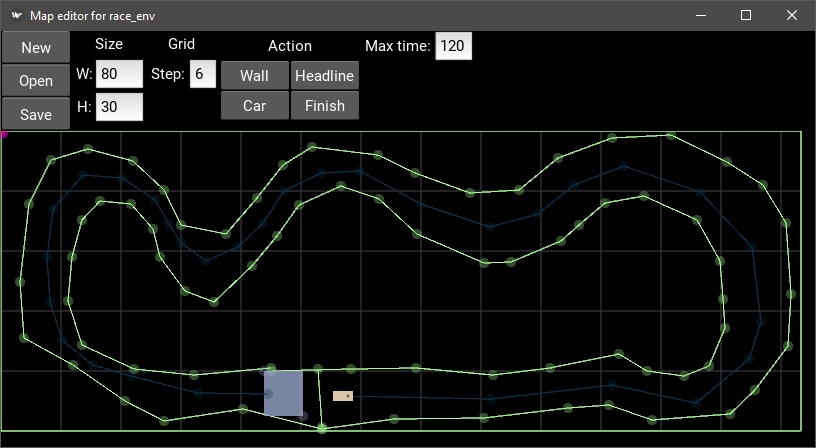
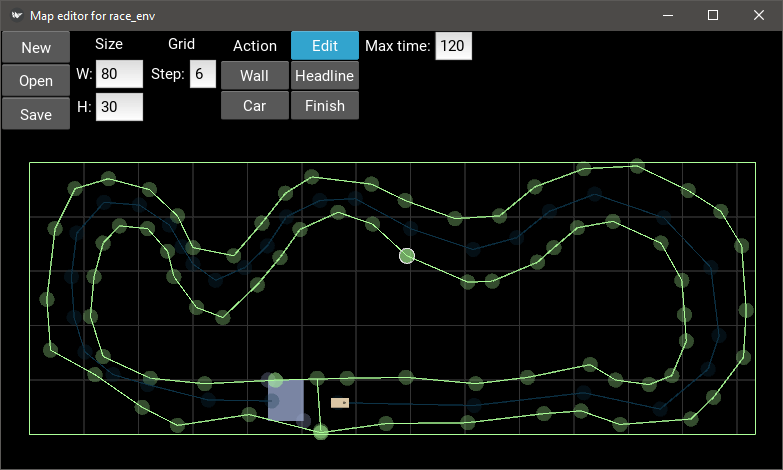
remove drawing of selection areas in other modes
updated screenshot

diff --git a/main.py b/main.py
@@ -259,6 +259,7 @@ class MapDrawer(Widget):
 
     def inner_draw(self):
         sel_r = self.selection_r * self.zoom
+        show_selection_areas = self.action == CurrentAction.edit
 
         Color(*self.colors['grid'])
         for i in range(0, app.map.size[0], self.grid_step):
@@ -266,15 +267,16 @@ class MapDrawer(Widget):
         for i in range(0, app.map.size[1], self.grid_step):
             Line(points=(0, i, app.map.size[0], i))
 
-        Color(*self.colors['finish'], 0.3)
-        for point in app.map.finish:
-            Ellipse(pos=(point[0] - sel_r, point[1] - sel_r),
-                    size=(sel_r * 2, sel_r * 2))
-
         Color(*self.colors['finish'], 0.8)
         if len(app.map.finish) == 2:
             Rectangle(pos=app.map.finish[0],
                       size=(app.map.finish[1][0] - app.map.finish[0][0], app.map.finish[1][1] - app.map.finish[0][1]))
+
+        if show_selection_areas:
+            Color(*self.colors['finish'], 0.3)
+            for point in app.map.finish:
+                Ellipse(pos=(point[0] - sel_r, point[1] - sel_r),
+                        size=(sel_r * 2, sel_r * 2))
 
         Color(*self.colors['wall'])
         Line(rectangle=(0, 0, app.map.size[0], app.map.size[1]))
@@ -282,11 +284,12 @@ class MapDrawer(Widget):
             for i in range(len(wall) - 1):
                 Line(points=(wall[i][0], wall[i][1], wall[i + 1][0], wall[i + 1][1]))
 
-        Color(*self.colors['wall'], 0.3)
-        for wall in app.map.walls:
-            for point in wall:
-                Ellipse(pos=(point[0] - sel_r, point[1] - sel_r),
-                        size=(sel_r * 2, sel_r * 2))
+        if show_selection_areas:
+            Color(*self.colors['wall'], 0.3)
+            for wall in app.map.walls:
+                for point in wall:
+                    Ellipse(pos=(point[0] - sel_r, point[1] - sel_r),
+                            size=(sel_r * 2, sel_r * 2))
 
         Color(*self.colors['main_line'])
         for i in range(len(app.map.headline) - 1):
@@ -294,10 +297,11 @@ class MapDrawer(Widget):
                 app.map.headline[i][0], app.map.headline[i][1], app.map.headline[i + 1][0],
                 app.map.headline[i + 1][1]))
 
-        Color(*self.colors['main_line'], 0.3)
-        for point in app.map.headline:
-            Ellipse(pos=(point[0] - sel_r, point[1] - sel_r),
-                    size=(sel_r * 2, sel_r * 2))
+        if show_selection_areas:
+            Color(*self.colors['main_line'], 0.3)
+            for point in app.map.headline:
+                Ellipse(pos=(point[0] - sel_r, point[1] - sel_r),
+                        size=(sel_r * 2, sel_r * 2))
 
         Color(*self.colors['selected_car'])
         sz = app.map.car_size
